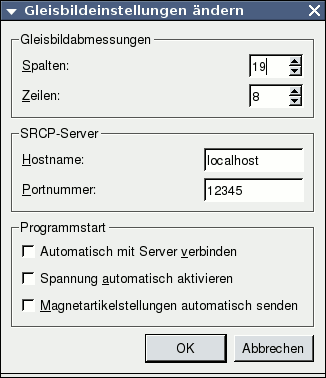
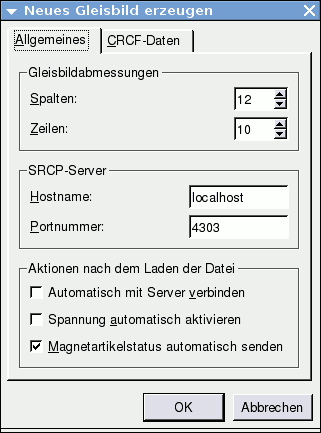
removed outdated screenshots from Englisch handbook, fixed warning message if program runs under locale C

Changed region(s): [[0.0, 0.0, 0.9969, 1.0], [0.9034, 0.6111, 0.9346, 0.6402]]

diff --git a/spdrs60/spdrs60_de.ts b/spdrs60/spdrs60_de.ts
@@ -565,8 +565,8 @@ den Suchkriterien entspricht.</translation>
         <translation>Gleisbilddatei öffnen</translation>
     </message>
     <message>
-        <source>Show routing table</source>
-        <translation>Fahrstraßentabelle anzeigen</translation>
+        <source>Show route list</source>
+        <translation>Fahrstraßenliste anzeigen</translation>
     </message>
     <message>
         <source>Show basic keyboard</source>
@@ -659,10 +659,6 @@ den Suchkriterien entspricht.</translation>
     <message>
         <source>&amp;Paste</source>
         <translation>&amp;Einfügen</translation>
-    </message>
-    <message>
-        <source>Routing &amp;table</source>
-        <translation>&amp;Fahrstraßentabelle</translation>
     </message>
     <message>
         <source>&amp;Feedback modules</source>
@@ -1069,7 +1065,7 @@ Die Zugnummer wird hierbei weitergeleitet.</translation>
         <translation>Statuszeile umschalten</translation>
     </message>
     <message>
-        <source>Status&amp;line</source>
+        <source>&amp;Statusline</source>
         <translation>Status&amp;zeile</translation>
     </message>
     <message>
@@ -1097,10 +1093,6 @@ Die Zugnummer wird hierbei weitergeleitet.</translation>
         <translation>Gleisbildbearbeitungsfunktionen</translation>
     </message>
     <message>
-        <source>&amp;Train number dialog</source>
-        <translation>&amp;Zugnummerneingabedialog</translation>
-    </message>
-    <message>
         <source>Show train number input dialog</source>
         <translation>Dialog zur Eingabe von Zugnummern öffnen</translation>
     </message>
@@ -1119,6 +1111,14 @@ Die Zugnummer wird hierbei weitergeleitet.</translation>
     <message>
         <source>Unsupported CRCF actor detected.</source>
         <translation>Nicht unterstützter CRCF-Akteur gefunden.</translation>
+    </message>
+    <message>
+        <source>Rou&amp;te list</source>
+        <translation>&amp;Fahrstraßenliste</translation>
+    </message>
+    <message>
+        <source>Tr&amp;ain number dialog</source>
+        <translation>&amp;Zugnummerneingabedialog</translation>
     </message>
 </context>
 <context>
@@ -2123,10 +2123,6 @@ Erlaubt sind Werte von %1 bis %2.</translation>
         <translation>Zugnummer ändern</translation>
     </message>
     <message>
-        <source>&amp;Train number:</source>
-        <translation>&amp;Zugnummer:</translation>
-    </message>
-    <message>
         <source>Enter the route id for the train number</source>
         <translation>Fahrstraßennummer für Zugnummer eingeben</translation>
     </message>
@@ -2137,6 +2133,10 @@ Erlaubt sind Werte von %1 bis %2.</translation>
     <message>
         <source>&amp;Apply</source>
         <translation>&amp;Anwenden</translation>
+    </message>
+    <message>
+        <source>&amp;Train number:</source>
+        <translation>&amp;Zugnummer:</translation>
     </message>
 </context>
 <context>
@@ -2291,7 +2291,7 @@ be automatically send to the SRCP server
 after layout power is switched on.
 </source>
         <translation>Nach dem Einschalten der Digitalspannung wird die Stellung
-aller Magnetartikel automatisch an den SRCP-Server gesand.</translation>
+aller Magnetartikel automatisch an den SRCP-Server gesandt.</translation>
     </message>
     <message>
         <source>Enter the portnumber of your srcp service.
@@ -2299,7 +2299,7 @@ Default value for SRCP 0.8 is 4303,
 for a SRCP 0.7 server choose 12345.</source>
         <translation>Hier die Portnummer des srcp-Dienstes eingeben.
 Die Voreinstellung für SRCP 0.8 ist 4303,
-für SRCP 0.7 ist der Wert 12345.</translation>
+für SRCP 0.7 beträgt der Wert 12345.</translation>
     </message>
     <message>
         <source>&amp;Id:</source>

diff --git a/spdrs60/spdrs60_it.ts b/spdrs60/spdrs60_it.ts
@@ -489,7 +489,7 @@ matches your search criteria.</source>
     </message>
     <message>
         <source>Save &amp;as...</source>
-        <translation>Salva &amp;come...</translation>
+        <translation>Salva c&amp;ome...</translation>
     </message>
     <message>
         <source>New &amp;window</source>
@@ -509,7 +509,7 @@ matches your search criteria.</source>
     </message>
     <message>
         <source>&amp;Layout</source>
-        <translation>&amp;Disposizione</translation>
+        <translation>Dis&amp;posizione</translation>
     </message>
     <message>
         <source>Edit layout file with external editor</source>
@@ -584,14 +584,6 @@ matches your search criteria.</source>
         <translation type="unfinished"></translation>
     </message>
     <message>
-        <source>Routing &amp;table</source>
-        <translation type="unfinished"></translation>
-    </message>
-    <message>
-        <source>Show routing table</source>
-        <translation type="unfinished"></translation>
-    </message>
-    <message>
         <source>&amp;Central clock</source>
         <translation type="unfinished"></translation>
     </message>
@@ -633,10 +625,6 @@ matches your search criteria.</source>
     </message>
     <message>
         <source>Show the toolbars</source>
-        <translation type="unfinished"></translation>
-    </message>
-    <message>
-        <source>Status&amp;line</source>
         <translation type="unfinished"></translation>
     </message>
     <message>
@@ -1068,10 +1056,6 @@ the server daemon after shutdown has finished)</source>
         <translation type="unfinished"></translation>
     </message>
     <message>
-        <source>&amp;Train number dialog</source>
-        <translation type="unfinished"></translation>
-    </message>
-    <message>
         <source>Show train number input dialog</source>
         <translation type="unfinished"></translation>
     </message>
@@ -1089,6 +1073,22 @@ the server daemon after shutdown has finished)</source>
     </message>
     <message>
         <source>Unsupported CRCF actor detected.</source>
+        <translation type="unfinished"></translation>
+    </message>
+    <message>
+        <source>Rou&amp;te list</source>
+        <translation type="unfinished"></translation>
+    </message>
+    <message>
+        <source>Show route list</source>
+        <translation type="unfinished"></translation>
+    </message>
+    <message>
+        <source>Tr&amp;ain number dialog</source>
+        <translation type="unfinished"></translation>
+    </message>
+    <message>
+        <source>&amp;Statusline</source>
         <translation type="unfinished"></translation>
     </message>
 </context>

diff --git a/spdrs60/mainwindow.cpp b/spdrs60/mainwindow.cpp
@@ -4,8 +4,8 @@
     copyright            : (C) 1999-2003 by Stefan Preis
                          : (C) 2004-2008 Guido Scholz
     email                : guido.scholz@bayernline.de
-    last modified        : $Date: 2008-05-17 09:34:32 $
-                           $Revision: 1.148 $
+    last modified        : $Date: 2008-05-19 21:19:40 $
+                           $Revision: 1.149 $
 ***************************************************************************/
 
 /***************************************************************************
@@ -847,12 +847,12 @@ void MainWindow::initMainWindow()
 
 #if QT_VERSION >= 0x030200
     actionViewRoutes = new QAction(QPixmap(viewroute_xpm),
-            tr("Routing &table"), Qt::CTRL + Qt::Key_R, this, "viewRoutes");
-    actionViewRoutes->setToolTip(tr("Show routing table"));
+            tr("Rou&te list"), Qt::CTRL + Qt::Key_R, this, "viewRoutes");
+    actionViewRoutes->setToolTip(tr("Show route list"));
 #else
-    actionViewRoutes = new QAction(tr("Show routing table"),
+    actionViewRoutes = new QAction(tr("Show route list"),
             QPixmap(viewroute_xpm),
-            tr("Routing &table"), Qt::CTRL + Qt::Key_R, this, "viewRoutes");
+            tr("Rou&te list"), Qt::CTRL + Qt::Key_R, this, "viewRoutes");
 #endif
     connect(actionViewRoutes, SIGNAL(activated()), this,
             SLOT(slotShowRoutes()));
@@ -875,12 +875,12 @@ void MainWindow::initMainWindow()
 
 #if QT_VERSION >= 0x030200
     actionViewTrainNumberDialog = new QAction(QPixmap(viewtrainnumber_xpm),
-            tr("&Train number dialog"), 0, this, "viewTrainNumberDlg");
+            tr("Tr&ain number dialog"), 0, this, "viewTrainNumberDlg");
     actionViewTrainNumberDialog->setToolTip(tr("Show train number input dialog"));
 #else
     actionViewTrainNumberDialog = new QAction(
             tr("Show train number input dialog"), QPixmap(viewtrainnumber_xpm),
-            tr("&Keyboard"), 0, this, "viewTrainNumberDlr");
+            tr("Tr&ain number dialog"), 0, this, "viewTrainNumberDlr");
 #endif
     connect(actionViewTrainNumberDialog, SIGNAL(activated()), this,
             SLOT(slotViewTrainNumberDialog()));
@@ -978,14 +978,14 @@ void MainWindow::initMainWindow()
 
 #if QT_VERSION >= 0x040000
     QAction* actionViewStatusline = new QAction(
-            tr("Status&line"), 0, this, "viewStatusline");
+            tr("&Statusline"), 0, this, "viewStatusline");
 #elif QT_VERSION >= 0x030200
     QAction* actionViewStatusline = new QAction(NULL,
-            tr("Status&line"), 0, this, "viewStatusline");
+            tr("&Statusline"), 0, this, "viewStatusline");
     actionViewStatusline->setToolTip(tr("Show the statusline"));
 #else
     QAction* actionViewStatusline = new QAction(tr("Show the statusline"),
-            tr("Status&line"), 0, this, "viewStatusline");
+            tr("&Statusline"), 0, this, "viewStatusline");
 #endif
     actionViewStatusline->setToggleAction(true);
     actionViewStatusline->setOn(true);

diff --git a/spdrs60/main.cpp b/spdrs60/main.cpp
@@ -1,11 +1,11 @@
 /***************************************************************************
                            main.cpp
-                           version 0.5.2 $Revision: 1.16 $
+                           version 0.5.2 $Revision: 1.17 $
                            -------------------------------
     copyright            : (C) 1999-2003 by Stefan Preis
                          : (C) 2004-2007 Guido Scholz
     email                : guido.scholz@bayernline.de
-    last modified        : $Date: 2007-10-10 19:41:51 $
+    last modified        : $Date: 2008-05-19 21:19:40 $
 ***************************************************************************/
 
 /**************************************************************************
@@ -25,7 +25,7 @@
 
 #include <qapplication.h>
 #include <qstring.h>
-#include <qtextcodec.h>
+#include <qlocale.h>
 #include <qtranslator.h>
 
 #ifdef WIN32
@@ -41,25 +41,34 @@ int main(int argc, char* argv[])
 {
    QApplication a(argc, argv);  // create a new Qt application
 
-   // translation file for Qt
-   QTranslator qt(0);
+   if (QLocale::system().language() != QLocale::C) {
 
 #ifdef QT_TRANSLATIONS_DIR
-   if (qt.load(QString("qt_") + QTextCodec::locale(), QT_TRANSLATIONS_DIR))
-       a.installTranslator(&qt);
-   else
-       qWarning("No Qt translation for locale '%s' found.",
-               QTextCodec::locale());
-#endif
-   
-   // translation file for application strings
-   QTranslator spdrs60Tr(0);
+       QTranslator* qtTr = new QTranslator(0);
+       Q_CHECK_PTR(qtTr);
 
-   if (spdrs60Tr.load(QString("spdrs60_") + QTextCodec::locale(), RES_DIR))
-       a.installTranslator(&spdrs60Tr);
-   else
-       qWarning("No spdrs60 translation for locale '%s' in '%s' found.",
-               QTextCodec::locale(), RES_DIR);
+       if (qtTr->load(QString("qt_") + QLocale::system().name(),
+                   QT_TRANSLATIONS_DIR))
+           a.installTranslator(qtTr);
+       else {
+           delete qtTr;
+           qWarning("No Qt translation for locale '%s' found.",
+                   QLocale::system().name().data());
+       }
+#endif
+
+       QTranslator* spdrs60Tr = new QTranslator(0);
+       Q_CHECK_PTR(spdrs60Tr);
+
+       if (spdrs60Tr->load(QString("spdrs60_") + QLocale::system().name(),
+                   RES_DIR))
+           a.installTranslator(spdrs60Tr);
+       else {
+           delete spdrs60Tr;
+           qWarning("No spdrs60 translation for locale '%s' in '%s' found.",
+                   QLocale::system().name().data(), RES_DIR);
+       }
+   }
 
    MainWindow* spdrs60Window = new MainWindow();
    Q_CHECK_PTR(spdrs60Window);
